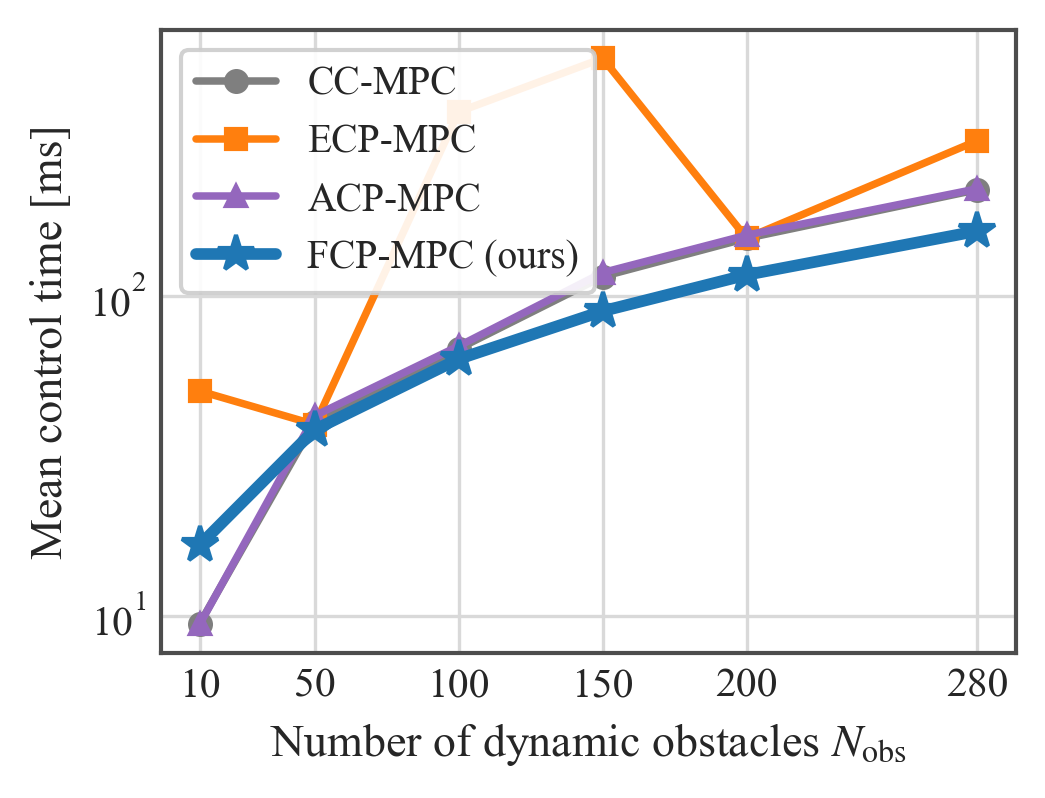
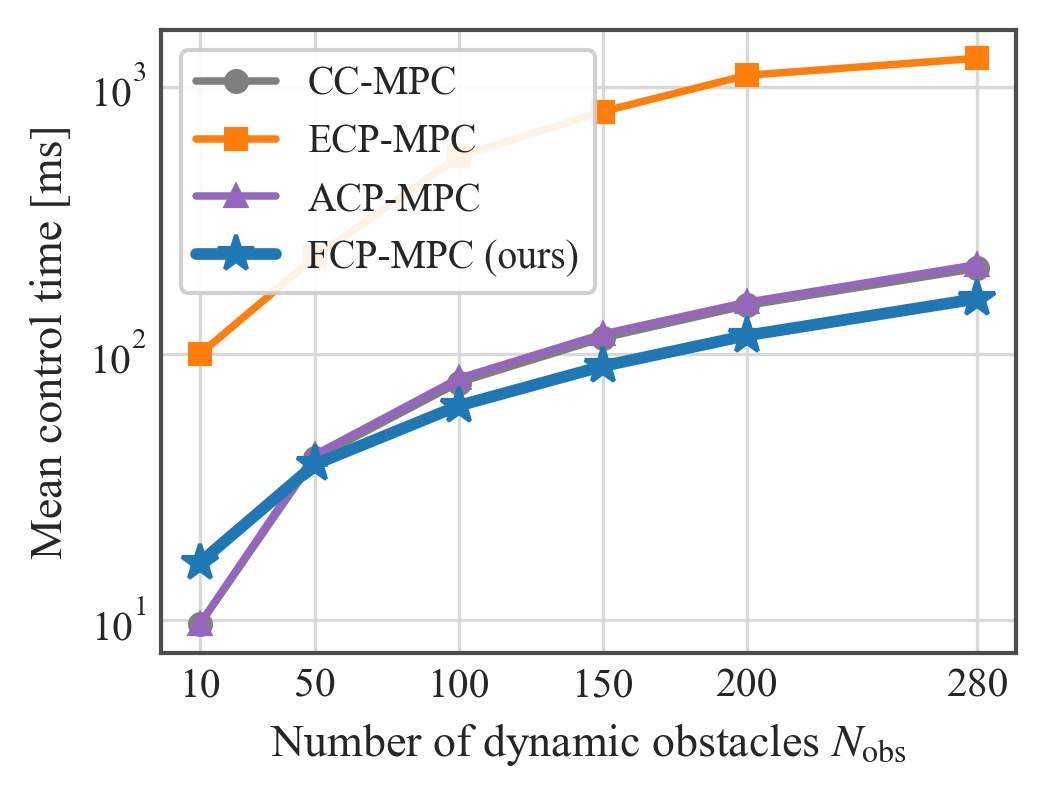
3d new results

diff --git a/T_RO2026/table_3d_results.tex b/T_RO2026/table_3d_results.tex
@@ -7,29 +7,29 @@ Steps to goal $\downarrow$ &
 Ctrl.\ time (ms) $\downarrow$ \\
 \hline
 ACP-MPC~\cite{dixit2023adaptive}
-& 0.032
-& \textbf{0.130}
+& $0.012\pm0.028$
+& \textbf{$0.147\pm0.149$}
 & crashed
-& 216.9 \\
+& 215.9 \\
 CC-MPC~\cite{lekeufack2024decision}
-& 0.064
+& $0.051\pm0.049$
 & N/A
-& 186.5
-& 215.3 \\
+& $188.1\pm4.3$
+& 209.0 \\
 ECP-MPC~\cite{shin2025egocentric}
-& 0.090
-& 0.342
+& $0.032\pm0.117$
+& $0.330\pm0.256$
 & crashed
-& 306.4 \\
+& 1282.9 \\
 FCP-MPC (hard)
-& 0.044
-& 0.269
-& 123.9
-& \textbf{51.5} \\
+& $0.010\pm0.023$
+& $0.873\pm0.097$
+& timeout
+& \textbf{40.2} \\
 FCP-MPC (soft)
-& \textbf{0.032}
+& \textbf{$0.004\pm0.010$}
 & N/A
-& \textbf{84.8}
-& 159.9 \\
+& \textbf{$99.6\pm45.8$}
+& 160.7 \\
 \hline
 \end{tabular}